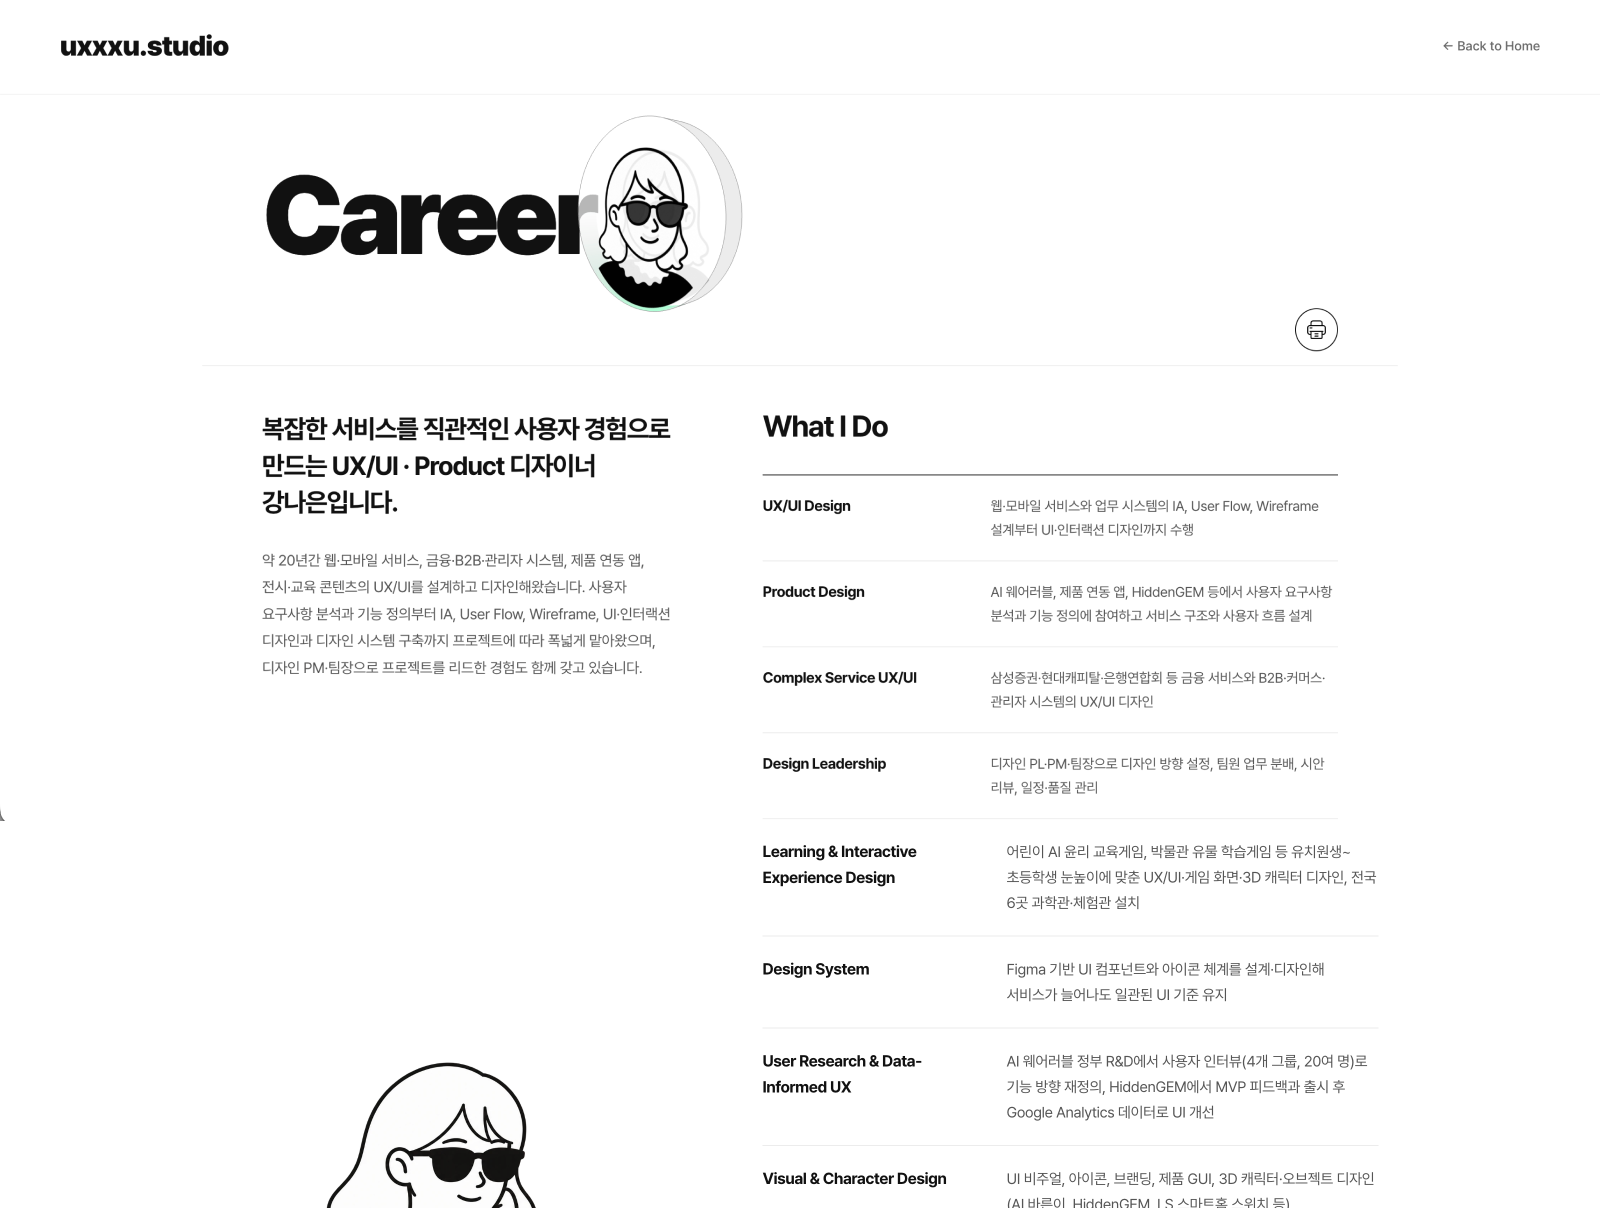
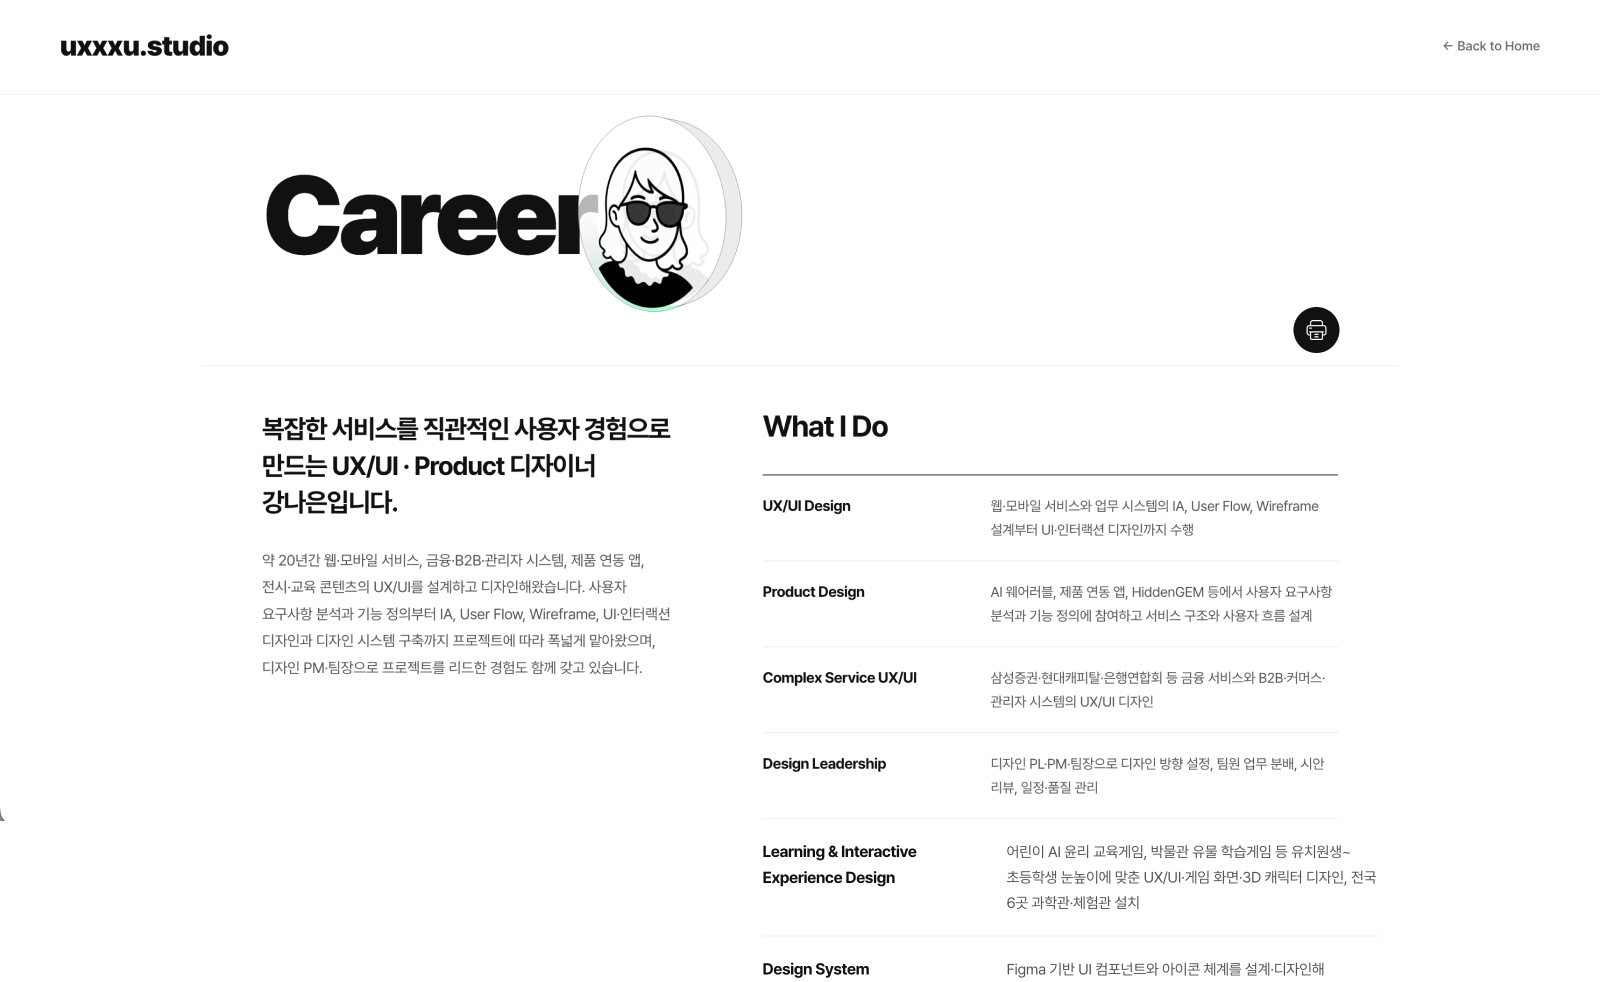
커리어 프린터 기능 케이스에 추가

diff --git a/case/uxxxu-ai.html b/case/uxxxu-ai.html
@@ -227,9 +227,122 @@ href="https://cdn.jsdelivr.net/gh/orioncactus/pretendard/dist/web/static/pretend
 }
 
 
-/* UX Decision: 웹 화면 / 인쇄 미리보기 두 장 */
-.workflow-image img + img{
-    margin-top:16px;
+/* UX Decision: 웹 화면 / 인쇄 미리보기 두 장을 세로로, 작게 */
+.workflow-image.is-pair{
+    display:grid;
+    gap:28px;
+    width:100%;
+    max-width:520px;
+    justify-self:end;
+    overflow:visible;
+    padding:24px 0;
+}
+
+/* UX Decision 제목 옆 인쇄 버튼 (Career 페이지 버튼과 같은 모양, 흰색↔검정 반복) */
+.ux-print-btn{
+    display:inline-flex;
+    align-items:center;
+    justify-content:center;
+    width:56px;
+    height:56px;
+    margin-left:20px;
+    vertical-align:middle;
+    position:relative;
+    top:-.08em;
+    border:1px solid #111;
+    border-radius:50%;
+    background:#fff;
+    animation:ux-print-bg 2.4s ease-in-out infinite alternate;
+}
+
+.ux-print-btn img{
+    width:24px;
+    height:24px;
+    object-fit:contain;
+    animation:ux-print-icon 2.4s ease-in-out infinite alternate;
+}
+
+@keyframes ux-print-bg{
+    0%, 30%{ background:#fff; }
+    70%, 100%{ background:#111; }
+}
+
+@keyframes ux-print-icon{
+    0%, 30%{ filter:invert(0); }
+    70%, 100%{ filter:invert(1); }
+}
+
+@media (prefers-reduced-motion: reduce){
+    .ux-print-btn,
+    .ux-print-btn img{
+        animation:none;
+    }
+}
+
+/* 텍스트를 첫 번째 이미지 상단에 맞춤 (이미지 영역 위 여백 24px과 동일) */
+.workflow-item.is-top{
+    align-items:start;
+}
+
+.workflow-item.is-top .workflow-text{
+    padding-top:24px;
+}
+
+/* 다른 캡처 이미지처럼 창 느낌: 둥근 모서리 + 테두리 + 부드러운 그림자 */
+.workflow-image.is-pair img{
+    border:1px solid #e5e5e5;
+    border-radius:12px;
+    box-shadow:0 18px 40px rgba(0,0,0,.12), 0 3px 8px rgba(0,0,0,.06);
+}
+
+@media(max-width:980px){
+    .ux-decision-title{
+        word-break:keep-all;
+    }
+
+    .ux-decision-title br{
+        display:none;
+    }
+
+    .ux-print-btn{
+        width:44px;
+        height:44px;
+        margin-left:12px;
+    }
+
+    .ux-print-btn img{
+        width:20px;
+        height:20px;
+    }
+
+    .workflow-item.is-top .workflow-text{
+        padding-top:0;
+    }
+
+    .workflow-image.is-pair{
+        max-width:none;
+        justify-self:stretch;
+        grid-template-columns:repeat(2,minmax(0,1fr));
+        gap:12px;
+        padding:12px 0;
+    }
+
+    .workflow-image.is-pair img{
+        border-radius:8px;
+        box-shadow:0 8px 20px rgba(0,0,0,.12), 0 2px 5px rgba(0,0,0,.06);
+    }
+}
+
+
+/* Result 섹션 하단 여백 (푸터 전) */
+.overview.outcome{
+    padding-bottom:240px;
+}
+
+@media(max-width:980px){
+    .overview.outcome{
+        padding-bottom:160px;
+    }
 }
 
 </style>
@@ -737,9 +850,9 @@ alt="Claude Design System으로 규칙을 정리한 화면">
 UX Decision
 </div>
 
-<h2>
+<h2 class="ux-decision-title">
 웹에서 보던 경력 정보를<br>
-출력 가능한 이력서 형태로 전환했습니다.
+출력 가능한 이력서 형태로 전환했습니다.<span class="ux-print-btn" aria-hidden="true"><img src="../assets/images/printer.png" alt=""></span>
 </h2>
 
 <p class="overview-text">
@@ -749,7 +862,7 @@ UX Decision
 
 <div class="workflow-list">
 
-<div class="workflow-item">
+<div class="workflow-item is-top">
 
 <div class="workflow-text">
 
@@ -776,7 +889,7 @@ Career 제목 옆 라인 위에 인쇄 버튼을 두고, 출력물 첫 장에는
 
 </div>
 
-<div class="workflow-image">
+<div class="workflow-image is-pair">
 <img src="images/uxxxu-ai/cap5.png"
 alt="경력기술서 웹 화면과 인쇄 버튼">
 <img src="images/uxxxu-ai/cap6.png"

diff --git a/career.html b/career.html
@@ -36,6 +36,10 @@
     padding-bottom:40px;
 }
 
+.pl-hero{
+    overflow-x:clip;
+}
+
 .pl-title-wrap{
     position:relative;
     display:inline-block;

diff --git a/projects.html b/projects.html
@@ -36,6 +36,10 @@
     padding-bottom:40px;
 }
 
+.pl-hero{
+    overflow-x:clip;
+}
+
 .pl-title-wrap{
     position:relative;
     display:inline-block;
